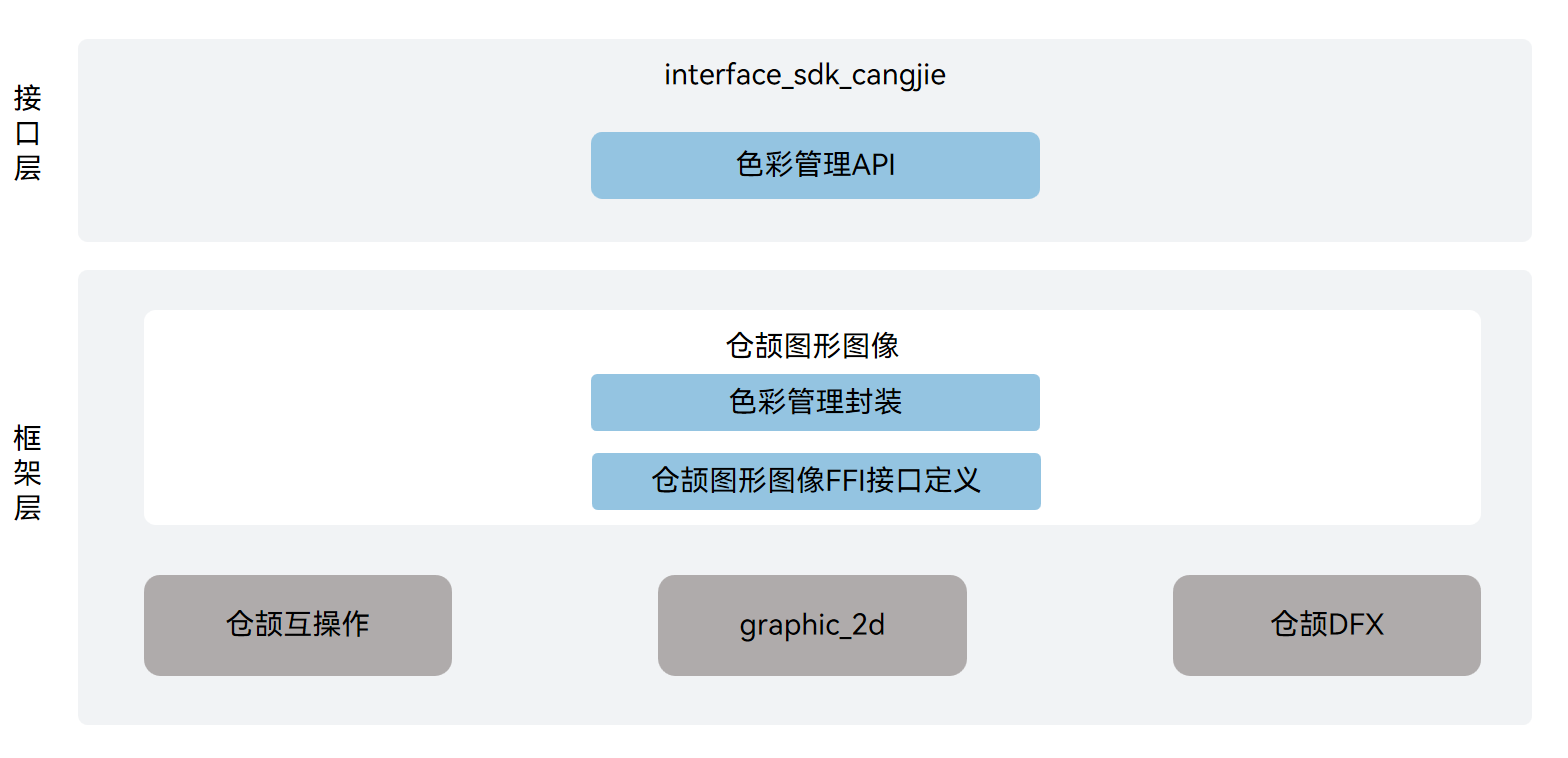
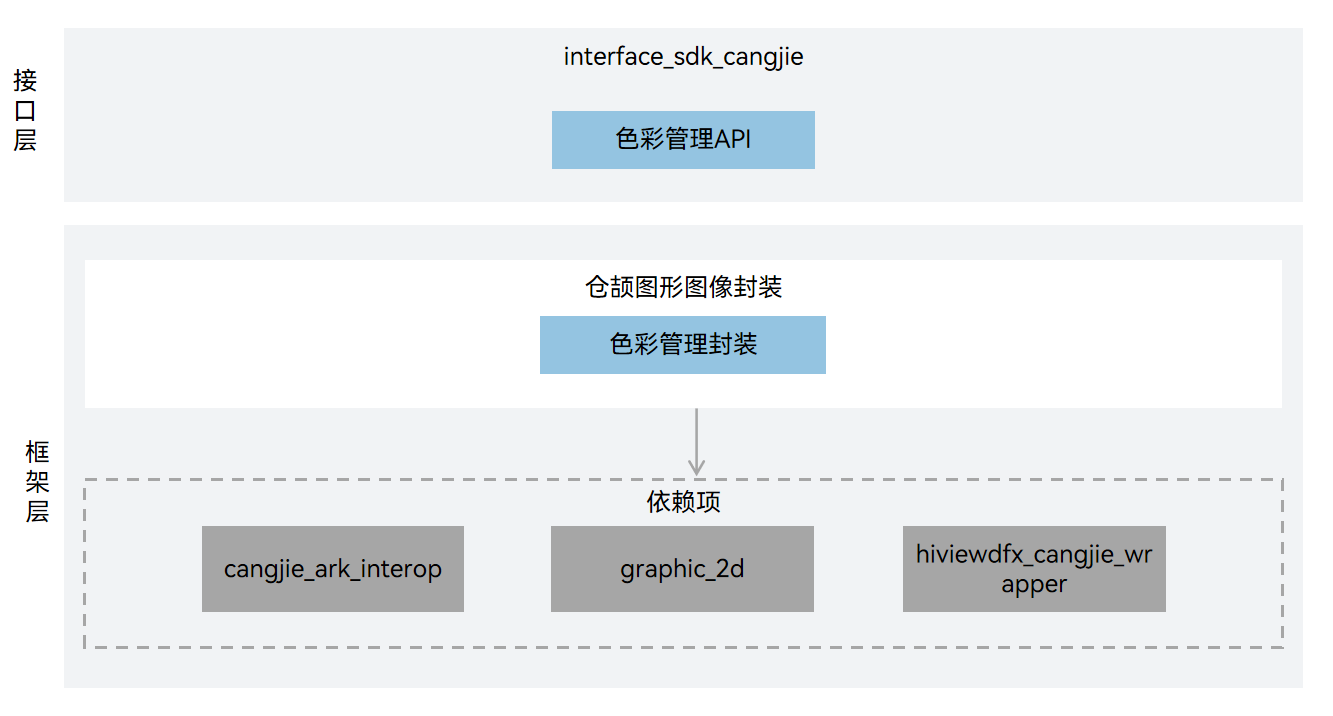
Adjust the architecture

diff --git a/README.md b/README.md
@@ -2,7 +2,7 @@
 
 ## Introduction
 
-The graphic_cangjie_wrapper is a Cangjie API encapsulated on OpenHarmony based on Graphic_2D capabilities. Provides Cangjie color management capability API. The currently open file management Cangjie interface only supports standard devices.
+The graphic_cangjie_wrapper is a Cangjie API encapsulated on OpenHarmony for application developers to provide Cangjie color management capability API. The currently open file management Cangjie interface only supports standard devices.
 
 ## System Architecture
 
@@ -15,17 +15,16 @@ As shown in the architecture diagram:
 
 Interface layer description:
 
-- Color Management API: Cangjie public interfaces based on color management encapsulation exposed to users.
+- Color Management API: Cangjie public interfaces based on color management encapsulation exposed to developers.
 
 Framework layer description:
 
-- Color Management Wrapper: Provide gamut-dependent configuration capabilities.
-- Cangjie graphics FFI interface definition: Responsible for defining the C language interoperable Cangjie interface, which is used to realize Cangjie graphics.
+- Color Management Wrapper: Provide gamut-dependent configuration capabilities. This encapsulation layer is a Cangjie encapsulation implementation of color management functionality based on graphic_2d.
 
 Cangjie Graphics Dependencies:
 
-- graphic_2d: Provides C language interfaces that can be called by the graphics Cangjie interface to complete image effects, rendering effects and other effects processing capabilities, including: multi-effect series and parallel processing, adding rendering effects, control interaction effects and other related capabilities during layout.
-- Cangjie ark interop: Encapsulates public interfaces for C language interoperation, and provides Cangjie tag class implementation for annotating Cangjie APIs, as well as providing BusinessException exception class definitions thrown to users.
+- graphic_2d: Provides native functionality implementation of image effects, rendering effects and other effects processing capabilities that can be called by the graphics Cangjie wrapper, including: multi-effect series and parallel processing, adding rendering effects, control interaction effects and other related capabilities during layout.
+- Cangjie Interop: Encapsulates public interfaces for C language interoperation, and provides Cangjie tag class implementation for annotating Cangjie APIs, as well as providing BusinessException exception class definitions thrown to users.
 - Cangjie DFX: Responsible for providing log interfaces, providing Cangjie interfaces that can be called by the graphics Cangjie interface to print logs at critical paths.
 
 ## Directory Structure
@@ -40,7 +39,6 @@ foundation/graphic/graphic_cangjie_wrapper
 │       └── color_space_manager       # Color management module
 └── test                              # Cangjie test code
     └── color_manager                 # Color management tests
-        └── test                      # Color management test project
 ```
 
 ## Usage Guidelines
@@ -49,17 +47,17 @@ The current Cangjie Graphics interface provides only Color Management.
 
 Color management, including creating standard color spaces and custom color spaces, as well as methods for obtaining color space related information. Supports developers in setting/getting color space related information in image processing and camera management.
 
-For Graphic-related APIs, please refer to [Color Management API](https://gitcode.com/openharmony-sig/arkcompiler_cangjie_ark_interop/blob/master/doc/API_Reference/source_en/apis/ArkGraphics2D/cj-apis-color_manager.md).
+For usage guidelines, please refer to [Color Management Development Guide](https://gitcode.com/openharmony-sig/arkcompiler_cangjie_ark_interop/blob/master/doc/Dev_Guide/source_en/graphics/cj-color-manager-development-guide.md).
 
 ## Constraints
 
-Compared with the API capabilities provided by ArkTS, the following functions are not supported at the moment:
+Compared with the API capabilities provided by ArkTS, the following functions are not supported:
 
-- The rendering capabilities of the UI framework.
-- 2D rendering, 3D rendering and rendering engine management.
-- Related capabilities of the animation engine.
-- Ability to process image effects, rendering effects.
-- The display and memory management capabilities.
+- [Image processing capabilities for image effects and rendering effects](https://gitcode.com/openharmony/docs/blob/master/en/application-dev/reference/apis-arkgraphics2d/js-apis-effectKit.md).
+- [Variable frame rate feature for self-drawing UI](https://gitcode.com/openharmony/docs/blob/master/en/application-dev/reference/apis-arkgraphics2d/js-apis-graphics-displaySync.md).
+- [HDR (High Dynamic Range) capability](https://gitcode.com/openharmony/docs/blob/master/en/application-dev/reference/apis-arkgraphics2d/js-apis-hdrCapability.md)
+- [Text layout and font management capabilities](https://gitcode.com/openharmony/docs/blob/master/en/application-dev/reference/apis-arkgraphics2d/js-apis-graphics-text.md).
+- [Effect cascading capability](https://gitcode.com/openharmony/docs/blob/master/en/application-dev/reference/apis-arkgraphics2d/js-apis-uiEffect.md)
 
 ## Code Contribution
 

diff --git a/README_zh.md b/README_zh.md
@@ -2,7 +2,7 @@
 
 ## 简介
 
-图形图像仓颉接口是在OpenHarmony上面向开发者进行应用开发使用Graphic_2D能力封装的仓颉API实现。提供了仓颉的色彩管理能力API，当前开放的文件管理仓颉接口仅支持standard设备。
+图形图像仓颉封装为OpenHarmony应用开发者提供了仓颉的色彩管理能力API，当前开放的文件管理仓颉接口仅支持standard设备。
 
 ## 系统架构
 
@@ -20,13 +20,12 @@
 框架层说明：
 
 - 色彩管理封装：提供色域相关配置能力。该封装层是基于graphic_2d对色彩管理功能进行的仓颉封装实现。
-- 仓颉图形图像FFI接口定义：负责定义被Cangjie语言调用的C语言互操作接口，用于实现仓颉图形图像能力。
 
 仓颉图形图像依赖部件引用说明：
 
-- graphic_2d：提供可被图形图像仓颉接口调用的完成图片效果、渲染特效等效果处理的能力的C语言接口，包括：多效果的串联、并联处理，在布局时加入渲染特效、控件交互特效等相关能力。
-- 仓颉互操作：封装C语言互操作公共接口，并提供仓颉标签类实现用于对仓颉API进行标注，以及提供抛向用户的BusinessException异常类定义。
-- 仓颉DFX：负责提供日志接口，提供可被图形图像仓颉接口调用的在关键路径处打印日志能力的仓颉接口。
+- graphic_2d：提供可被图形图像仓颉封装调用的图片效果、渲染特效等效果处理的能力的native功能实现，包括：多效果的串联、并联处理，在布局时加入渲染特效、控件交互特效等相关能力。
+- cangjie_ark_interop：封装C语言互操作公共接口，并提供仓颉标签类实现用于对仓颉API进行标注，以及提供抛向用户的BusinessException异常类定义。
+- hiviewdfx_cangjie_wrapper：负责提供日志接口，提供可被图形图像仓颉接口调用的在关键路径处打印日志能力的仓颉接口。
 
 ## 目录
 
@@ -40,7 +39,6 @@ foundation/graphic/graphic_cangjie_wrapper
 │       └── color_space_manager       # 色彩管理模块
 └── test                              # 仓颉测试代码
     └── color_manager                 # 色彩管理测试
-        └── test                      # 色彩管理测试工程
 ```
 
 ## 使用说明
@@ -55,11 +53,11 @@ foundation/graphic/graphic_cangjie_wrapper
 
 与ArkTS提供的API能力相比，暂不支持以下功能：
 
-- UI框架的绘制能力。
-- 2D渲染、3D渲染和渲染引擎的管理。
-- 动画引擎的相关能力。
-- 图片效果、渲染特效能力。
-- 显示与内存管理能力。
+- [图片处理能力图片效果、渲染特效功能](https://gitcode.com/openharmony/docs/blob/master/zh-cn/application-dev/reference/apis-arkgraphics2d/js-apis-effectKit.md)。
+- [自绘制UI的可变帧率功能](https://gitcode.com/openharmony/docs/blob/master/zh-cn/application-dev/reference/apis-arkgraphics2d/js-apis-graphics-displaySync.md)。
+- [HDR(高动态显示范围)功能](https://gitcode.com/openharmony/docs/blob/master/zh-cn/application-dev/reference/apis-arkgraphics2d/js-apis-hdrCapability.md)
+- [文本布局和字体管理功能](https://gitcode.com/openharmony/docs/blob/master/zh-cn/application-dev/reference/apis-arkgraphics2d/js-apis-graphics-text.md)。
+- [效果级联功能](https://gitcode.com/openharmony/docs/blob/master/zh-cn/application-dev/reference/apis-arkgraphics2d/js-apis-uiEffect.md)
 
 ## 参与贡献
 
